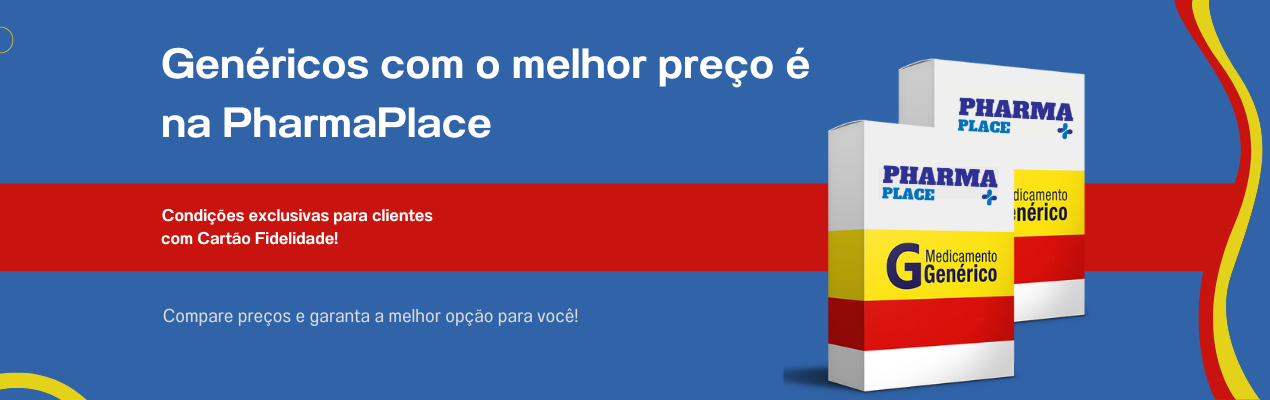
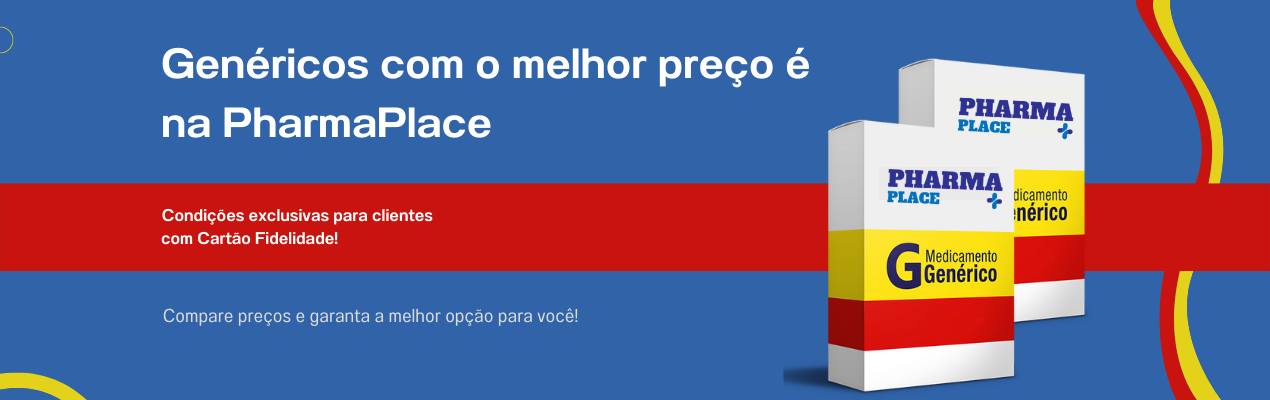
feat [input]: Implementação do input estático

Changed region(s): [[0.8906, 0.0, 1.0, 1.0], [0.6756, 0.39, 0.7984, 0.51]]

diff --git a/app/src/Components/Filters/Input/style.js b/app/src/Components/Filters/Input/style.js
@@ -1,0 +1,48 @@
+import styled from "styled-components";
+
+export const Container = styled.div`
+  display: flex;
+  align-items: center;
+  flex-direction: row;
+  justify-content: center;
+
+  padding: 10px;
+
+  background-color: var(--primary);
+
+  .button {
+    background-color: var(--terciary);
+    color: var(--white);
+    opacity: 1;
+
+    height: 40px;
+
+    border-radius: 5px;
+
+    font-family: var(--main-font);
+    font-size: 16px;
+    font-weight: 600;
+
+    margin-left: 20px;
+
+    &:hover {
+      background-color: var(--secundary);
+      color: var(--white);
+    }
+  }
+
+  .input {
+    outline: 0;
+    border: none;
+
+    padding: 10px;
+
+    width: 700px;
+    height: 40px;
+
+    color: var(--grey2);
+    font-family: var(--main-font);
+    font-weight: bold;
+    font-size: 18px;
+  }
+`;

diff --git a/app/src/Components/Filters/Filter/index.jsx b/app/src/Components/Filters/Filter/index.jsx
@@ -1,6 +1,6 @@
 import { Container } from "./style";
 import { RiAttachmentLine, RiHospitalFill } from "react-icons/ri";
-import { GiHealthNormal, GiLipstick } from "react-icons/gi";
+import { GiMedicines, GiHealthNormal, GiLipstick } from "react-icons/gi";
 import { ImMakeGroup } from "react-icons/im";
 import { TbMoodKid } from "react-icons/tb";
 import { MdLocalConvenienceStore } from "react-icons/md";
@@ -41,6 +41,13 @@ const SearchFilter = () => {
           <RiAttachmentLine />
         </div>
         <span className="name">Higiene</span>
+      </section>
+
+      <section className="filter">
+        <div className="icon">
+          <GiMedicines />
+        </div>
+        <span className="name">Medicamentos</span>
       </section>
 
       <section className="filter">

diff --git a/app/src/Components/Banner/style.js b/app/src/Components/Banner/style.js
@@ -1,10 +1,33 @@
 import styled from "styled-components";
+import BannerMobile from "../../Assets/bannerMobile.png";
+import Banner from "../../Assets/banner.png";
 
 export const Img = styled.img`
+  width: 1270px;
+  height: 400px;
+
+  background-image: url(${Banner});
+  border-radius: 10px;
+
+  @media (max-width: 500px) {
+    height: 350px;
+    width: 400px;
+    background-image: url(${BannerMobile});
+    border-radius: 1px;
+    transition: 400ms;
+  }
+`;
+
+export const Container = styled.div`
   width: 100%;
-  height: 450px;
+  height: 410px;
+  display: flex;
+  align-items: center;
+  justify-content: center;
+  
 
   @media (max-width: 650px) {
-    height: 200px;
+    width: 100%;
+    height: 350px;
   }
 `;

diff --git a/app/src/Pages/Dashboard/index.jsx b/app/src/Pages/Dashboard/index.jsx
@@ -1,22 +1,16 @@
-<<<<<<< HEAD
 import CardsDashboard from "../../Components/Dashboard/Cards-dashboard";
-=======
 import ModalAdd from "../../Components/Dashboard/Modals/Add";
 import ModalDelete from "../../Components/Dashboard/Modals/Delete";
 import ModalEdit from "../../Components/Dashboard/Modals/Edit";
->>>>>>> f2faf4c2ffed3fa3addf0286b4c07e6a636fd231
 
 const Dashboard = () => {
   return (
     <>
-<<<<<<< HEAD
       <h1>Dashboard</h1>
       <CardsDashboard />
-=======
       <ModalEdit />
       <ModalAdd />
       <ModalDelete />
->>>>>>> f2faf4c2ffed3fa3addf0286b4c07e6a636fd231
     </>
   );
 };

diff --git a/app/src/Pages/Home/index.jsx b/app/src/Pages/Home/index.jsx
@@ -1,6 +1,6 @@
-
 import BannerArea from "../../Components/Banner";
 import SearchFilter from "../../Components/Filters/Filter";
+import SearchInput from "../../Components/Filters/Input";
 import Footer from "../../Components/Footer";
 import Header from "../../Components/Header";
 
@@ -12,7 +12,8 @@ const Home = () => {
       <section>
         <SearchFilter />
       </section>
-      <Footer/>
+      <SearchInput />
+      <Footer />
     </div>
   );
 };

diff --git a/app/src/Styles/global.js b/app/src/Styles/global.js
@@ -12,6 +12,7 @@ export default createGlobalStyle`
 :root{
     --white: #fff;
     --grey: #E5E5E5;
+    --grey2: #474747;
     --primary: #2E3192;
     --secundary: #4357AC;
     --terciary: #597DC6;
@@ -20,6 +21,9 @@ export default createGlobalStyle`
     --orange: #E64727;
     --green: #4FC646;
     --blue: #0077B6;
+    --background-banner: #3063a8;
+
+
 
     --main-font: 'Roboto', sans-serif;
     --second-font: 'Poppins', sans-serif;

diff --git a/app/src/Components/Filters/Input/index.jsx b/app/src/Components/Filters/Input/index.jsx
@@ -1,5 +1,12 @@
+import { Container } from "./style";
+
 const SearchInput = () => {
-  return <h1>SearchInput</h1>;
+  return (
+    <Container>
+      <input className="input" placeholder="Digite aqui sua busca" />
+      <button className="button">Buscar</button>
+    </Container>
+  );
 };
 
 export default SearchInput;

diff --git a/app/src/Components/Banner/index.jsx b/app/src/Components/Banner/index.jsx
@@ -1,8 +1,11 @@
-import Banner from "../../Assets/banner.png";
-import { Img } from "./style";
+import { Container, Img } from "./style";
 
 const BannerArea = () => {
-  return <Img  alt="banner" src={Banner} />;
+  return (
+    <Container>
+      <Img/>
+    </Container>
+  );
 };
 
 export default BannerArea;
